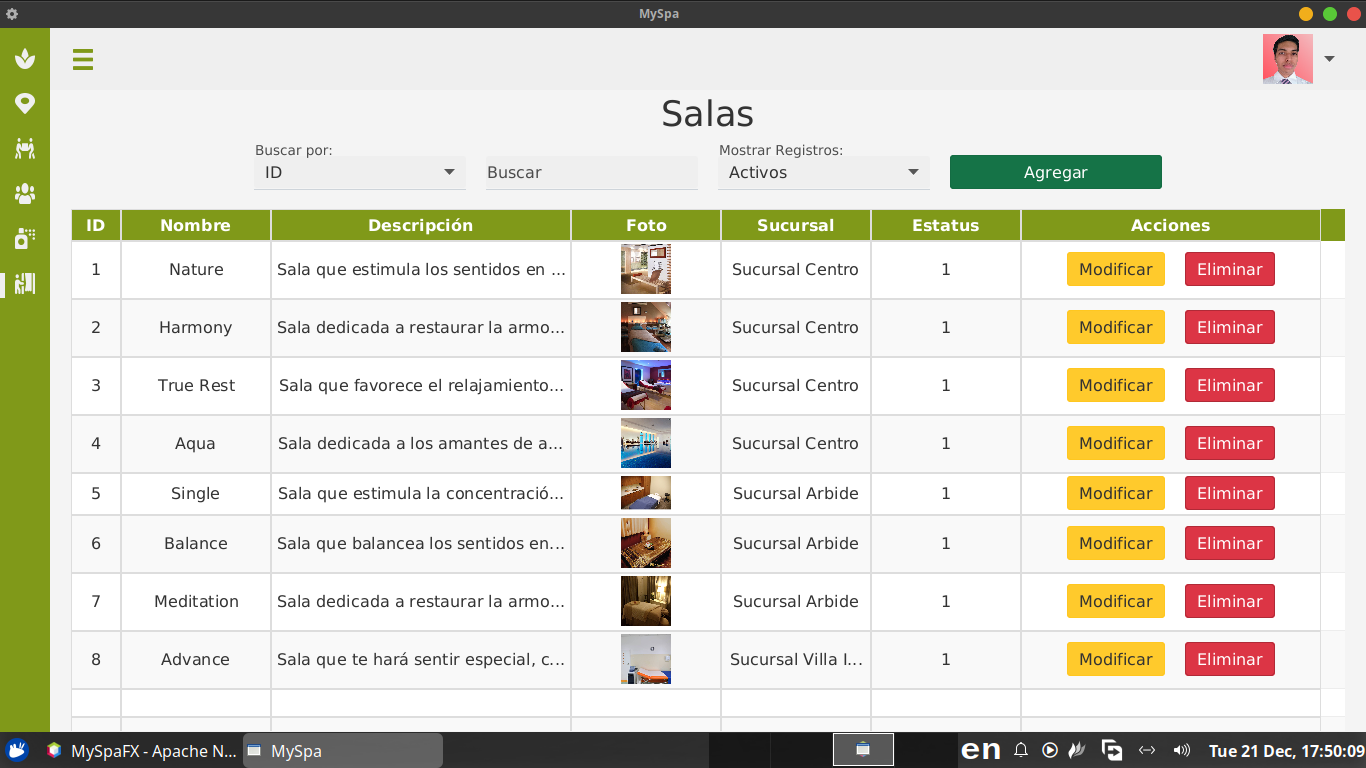
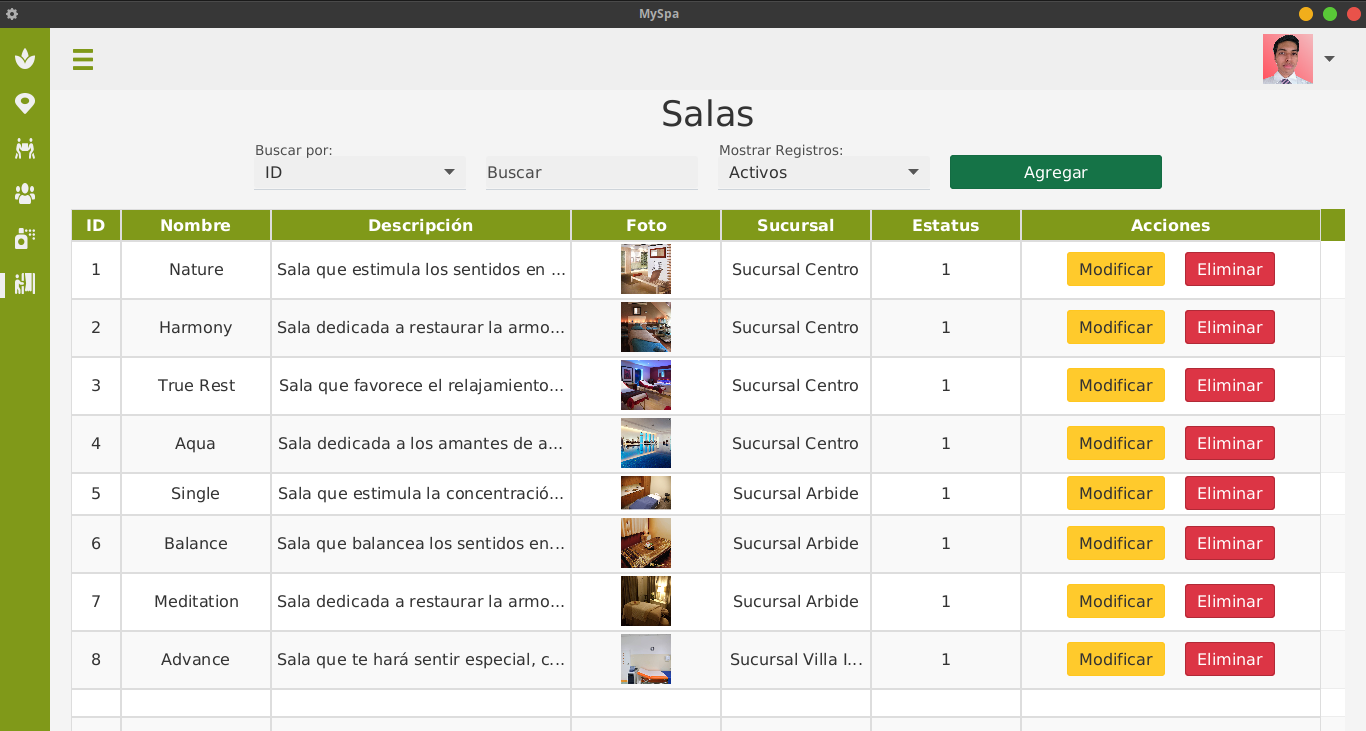
google fonts added

diff --git a/projects.html b/projects.html
@@ -51,34 +51,42 @@
     </nav>
 
     <div class="container d-flex flex-column flex-grow-1 justify-content-center my-5">
+        <h1 class="text-center mb-5">Projects</h1>
         <div class="row justify-content-center gy-5">
             <div class="col-lg-4 col-md-6">
-                <div class="card bg-dark mx-auto" style="width: 18rem;">
+                <div class="card bg-dark mx-auto">
                     <img src="img/MySPA.png" class="card-img-top" alt="...">
                     <div class="card-body">
                         <h5 class="card-title text-center">MySPA</h5>
-                        <p class="card-text">This is a java web application to manage a Spa.</p>
-                        <a href="#" class="btn btn-danger d-block"><i class="bi bi-github"></i> View on Github</a>
+                        <p class="card-text">This is a java web application to manage a Spa.
+                            It was developed using the Jersey framework.
+                        </p>
+                        <a href="https://github.com/RobertAguilera712/MYSPA-Full" class="btn btn-danger d-block"
+                            target="_blank"><i class="bi bi-github"></i> View on Github</a>
                     </div>
                 </div>
             </div>
             <div class="col-lg-4 col-md-6">
-                <div class="card bg-dark mx-auto" style="width: 18rem;">
-                    <img src="img/MySPA.png" class="card-img-top" alt="...">
+                <div class="card bg-dark mx-auto">
+                    <img src="img/MySPAFX.png" class="card-img-top" alt="...">
                     <div class="card-body">
-                        <h5 class="card-title text-center">MySPA</h5>
-                        <p class="card-text">This is a java web application to manage a Spa.</p>
-                        <a href="#" class="btn btn-danger d-block"><i class="bi bi-github"></i> View on Github</a>
+                        <h5 class="card-title text-center">MySPA-FX</h5>
+                        <p class="card-text">This is the Desktop version of MySPa. It is a JavaFx application that
+                            consumes the api developed in the web version.</p>
+                        <a href="https://github.com/RobertAguilera712/MySpaFX" class="btn btn-danger d-block"
+                            target="_blank"><i class="bi bi-github"></i> View on Github</a>
                     </div>
                 </div>
             </div>
             <div class="col-lg-4 col-md-6">
-                <div class="card bg-dark mx-auto" style="width: 18rem;">
-                    <img src="img/MySPA.png" class="card-img-top" alt="...">
+                <div class="card bg-dark mx-auto">
+                    <img src="img/temp-monitor.png" class="card-img-top" alt="...">
                     <div class="card-body">
-                        <h5 class="card-title text-center">MySPA</h5>
-                        <p class="card-text">This is a java web application to manage a Spa.</p>
-                        <a href="#" class="btn btn-danger d-block"><i class="bi bi-github"></i> View on Github</a>
+                        <h5 class="card-title text-center">Temp-Monitor</h5>
+                        <p class="card-text">This is a very simple temp monitor that reads data from Arduino and
+                            displays it in a JavaFX app. It also sends the data to Dweet.io, so you can track it.</p>
+                        <a href="https://github.com/RobertAguilera712/Temp-Monitor" class="btn btn-danger d-block"
+                            target="_blank"><i class="bi bi-github"></i> View on Github</a>
                     </div>
                 </div>
             </div>

diff --git a/styles/styles.css b/styles/styles.css
@@ -1,3 +1,5 @@
+@import url('https://fonts.googleapis.com/css2?family=Archivo:wght@900&family=Roboto:wght@400;500&display=swap');
+
 :root{
     --red: #ff5562;
     --black: #1b1b1b;
@@ -7,14 +9,31 @@
 body{
     background-color: var(--black) !important;
     color: #eee;
+    font-family: 'Roboto', sans-serif;
+}
+
+h1, h2, h3, h4, h5, h6{
+    font-family: 'Archivo', sans-serif;
+}
+
+h1{
+    color: #dc3545;
 }
 
 .bg-dark{
     background-color: var(--dark-gray) !important;
 }
 
+.navbar-brand{
+    font-family: 'Archivo', sans-serif;
+}
+
 .nav-link, .navbar-brand, .footer{
     color: var(--red) !important;
+}
+
+.nav-link, .footer{
+    font-weight: 500;
 }
 
 .nav-link{
@@ -33,4 +52,15 @@ body{
 
 .nav-item:hover{
     background-color: #444;
+}
+
+.card{
+    width: 18rem;
+    height: 25rem;
+}
+
+.card-body{
+    display: flex;
+    flex-direction: column;
+    justify-content: space-between;
 }
